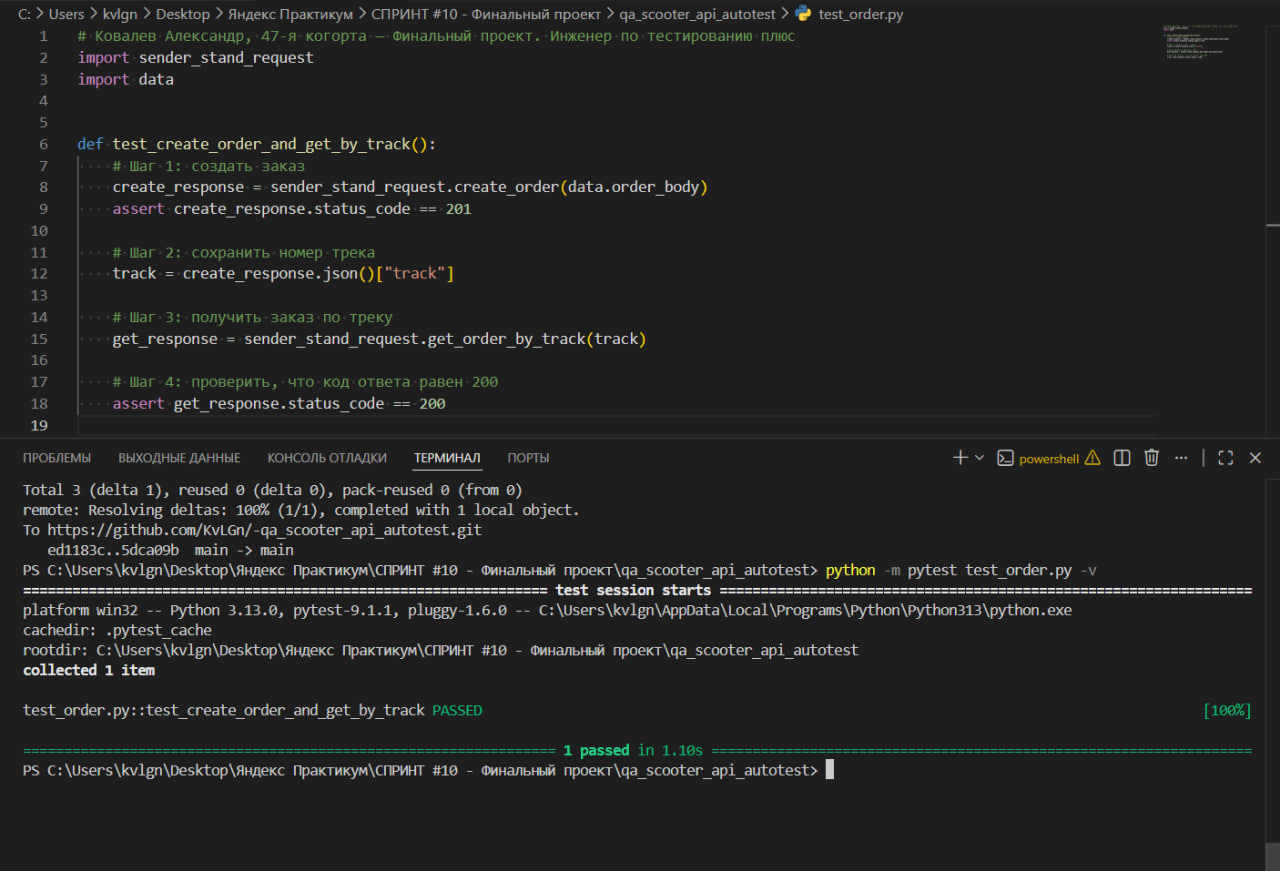
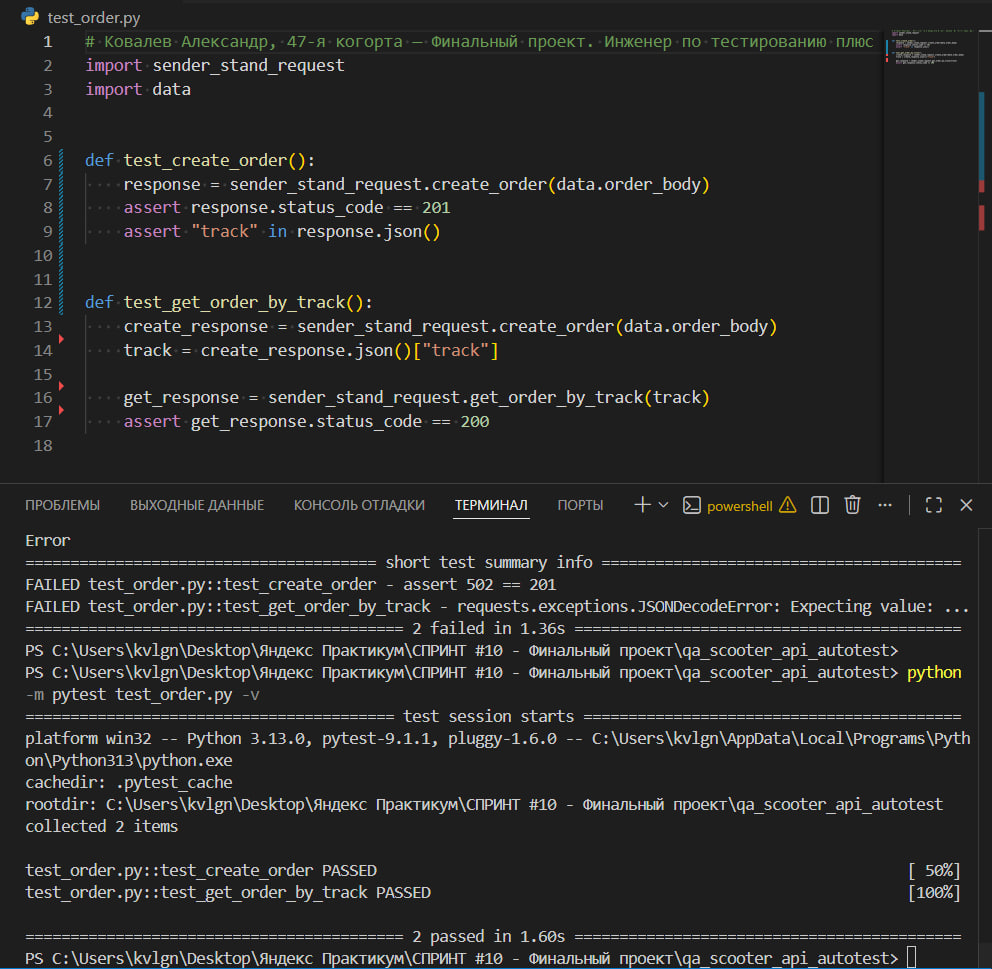
Разделить тест на два и использовать params

diff --git a/test_order.py b/test_order.py
@@ -3,16 +3,15 @@ import sender_stand_request
 import data
 
 
-def test_create_order_and_get_by_track():
-    # Шаг 1: создать заказ
-    create_response = sender_stand_request.create_order(data.order_body)
-    assert create_response.status_code == 201
+def test_create_order():
+    response = sender_stand_request.create_order(data.order_body)
+    assert response.status_code == 201
+    assert "track" in response.json()
 
-    # Шаг 2: сохранить номер трека
+
+def test_get_order_by_track():
+    create_response = sender_stand_request.create_order(data.order_body)
     track = create_response.json()["track"]
 
-    # Шаг 3: получить заказ по треку
     get_response = sender_stand_request.get_order_by_track(track)
-
-    # Шаг 4: проверить, что код ответа равен 200
     assert get_response.status_code == 200

diff --git a/configuration.py b/configuration.py
@@ -1,3 +1,3 @@
-URL_SERVICE = "https://f9317182-9dbb-4811-968e-6526da8921bd.serverhub.praktikum-services.ru"
+URL_SERVICE = "https://fae175ee-700b-414f-b440-f57c507263f4.serverhub.praktikum-services.ru"
 CREATE_ORDER_PATH = "/api/v1/orders"
-GET_ORDER_BY_TRACK_PATH = "/api/v1/orders/track?t="
+GET_ORDER_BY_TRACK_PATH = "/api/v1/orders/track"

diff --git a/sender_stand_request.py b/sender_stand_request.py
@@ -13,5 +13,6 @@ def create_order(body):
 
 def get_order_by_track(track):
     return requests.get(
-        configuration.URL_SERVICE + configuration.GET_ORDER_BY_TRACK_PATH + str(track)
+        configuration.URL_SERVICE + configuration.GET_ORDER_BY_TRACK_PATH,
+        params={"t": track}
     )
